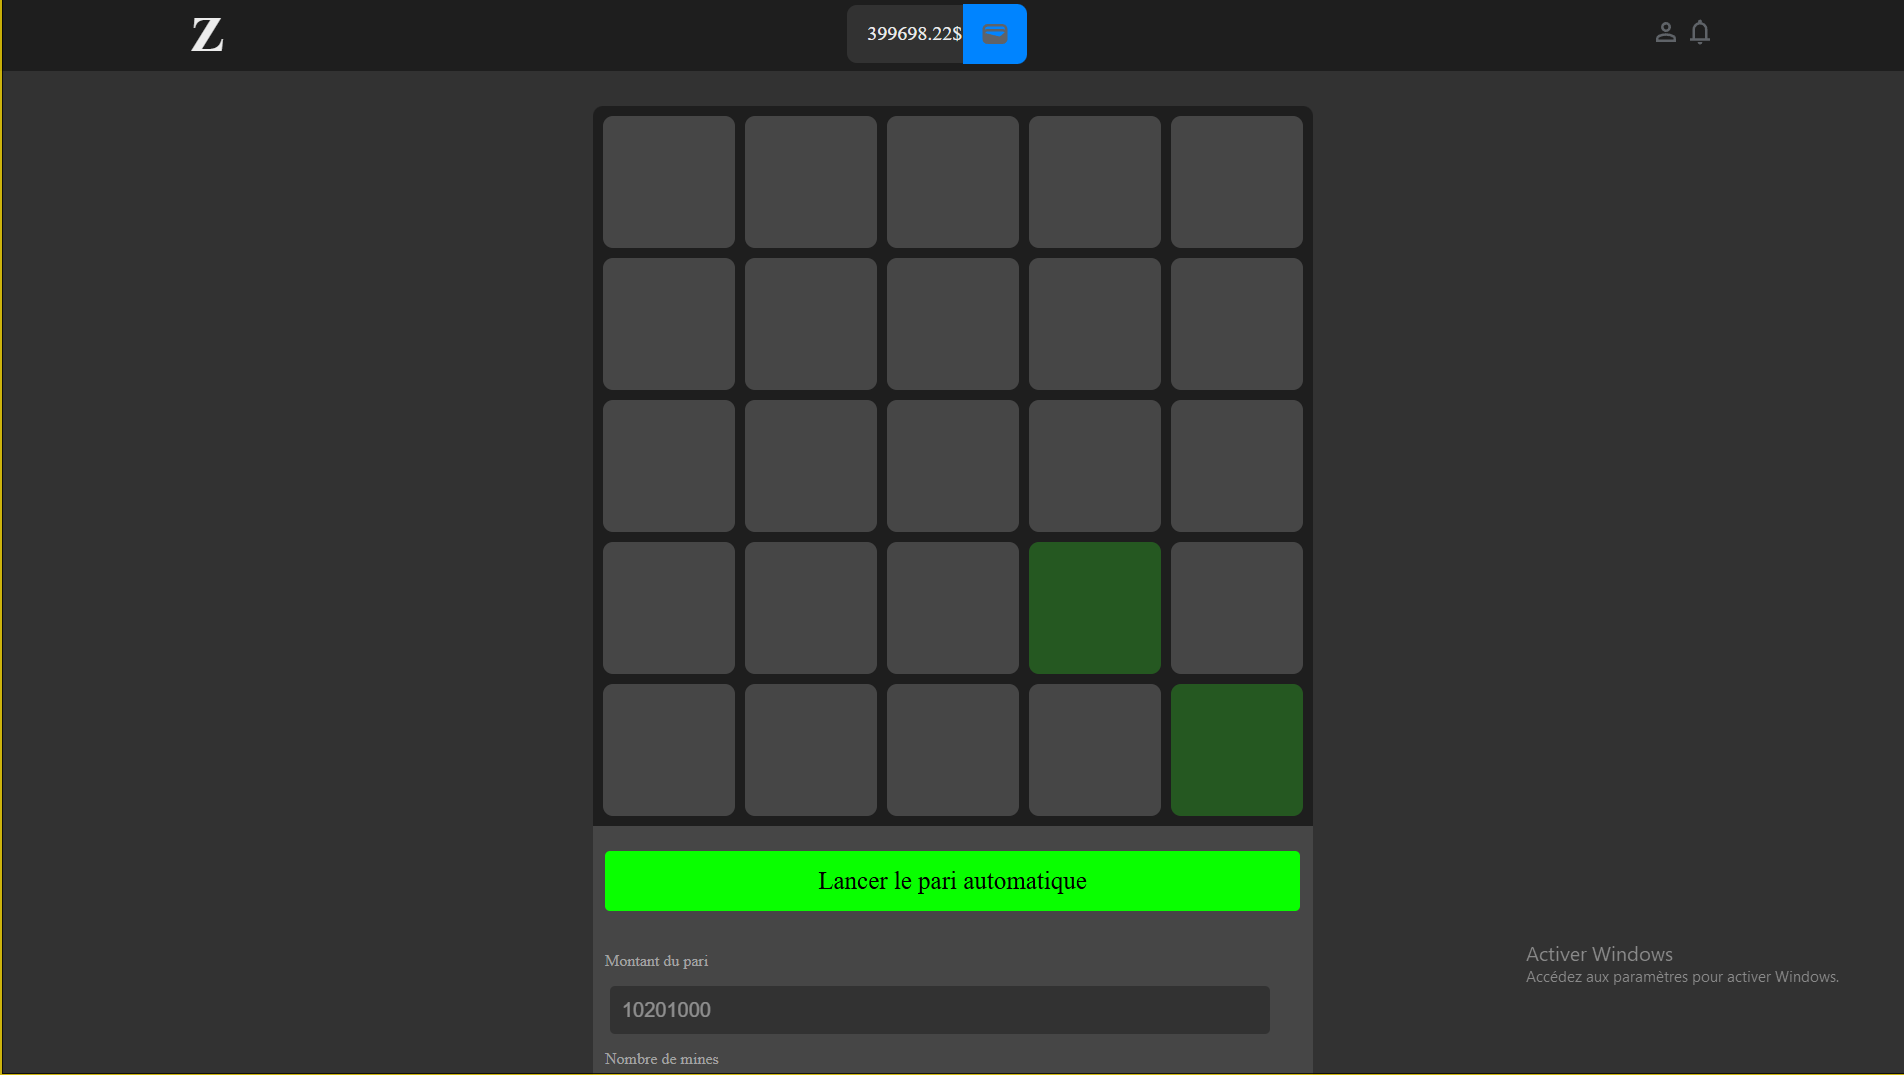
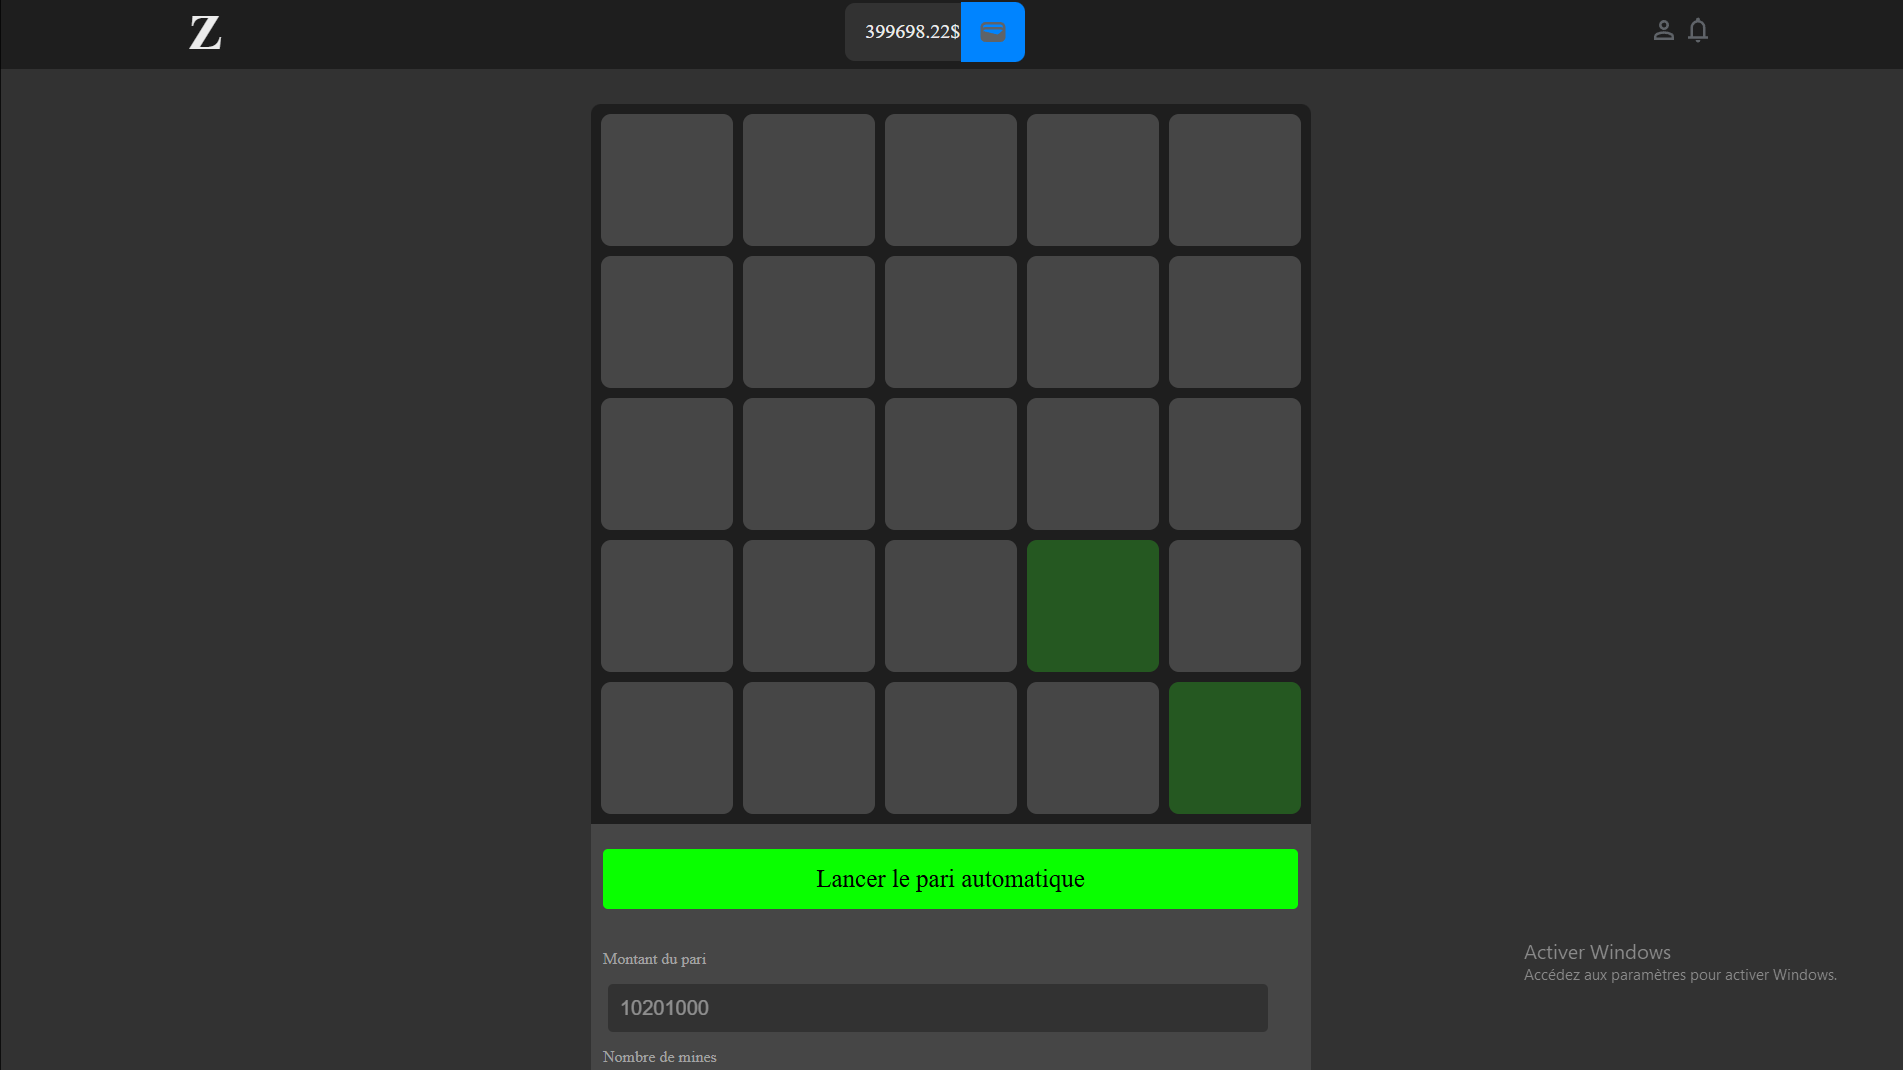
modification et presque fini, commit avant reglage h1

diff --git a/src/webjam.html b/src/webjam.html
@@ -177,7 +177,7 @@
                     </p>
 
                     <div class="media__media img-grad">
-                        <img src="assets/images/ImgBoxotel.png" alt="Photo de Zack lorsqu'il était enfant" />
+                        <img src="assets/images/memoria__oneRender.png" alt="Photo de Zack lorsqu'il était enfant" />
                     </div>
 
                 </div>
@@ -254,29 +254,40 @@
 
         <div class="swiper projets__swiper autre" data-component="Carousel" data-scrolly="fromBottom">
             <div class="swiper-wrapper">
-                <a class="swiper-slide">
+                <a class="swiper-slide" href="./Boxotel.html">
+                    <div class="texte">
+                        <h4>Refonte du site web de Boxotel</h4>
+                        <p>Repenser le site avec une approche fonctionnelle tout en conservant son identité visuelle.</p>
+                    </div>
+
+                    <img src="assets/images/ImgBoxotel.png" alt="Projet de refonte du site web de Boxotel" />
+                </a>
+
+                <a class="swiper-slide" href="./portfolio.html">
+                    <div class="texte">
+                        <h4>Création et conception d'un portfolio</h4>
+                        <p>Design et Intégration Web d’un portfolio étudiant en contexte...</p>
+                         
+                    </div>
+
+                    <img src="assets/images/portfolio__projet.png" alt="Projet de refonte du site web de Boxotel" />
+                </a>
+                <a class="swiper-slide" href="./swiiper.html">
+                    <div class="texte">
+                        <h4>Design d’application Swiiper</h4>
+                        <p>Le concept est inspiré des jeux idle. Pour ce qui est du design, j’ai essayé de me rapprocher du...</p>
+                         
+                    </div>
+
+                    <img src="assets/images/swiiper__projet.png" alt="Projet de refonte du site web de Boxotel" />
+                </a>
+                <a class="swiper-slide" href="./minesetbombes.html">
                     <div class="texte">
                         <h4>Dévelopement du jeu mines et bombes</h4>
                         <p>Mines et Bombes est un projet personnel programmer entièrement par moi même...</p>
                     </div>
 
-                    <img src="assets/images/ImgBoxotel.png" alt="Projet de refonte du site web de Boxotel" />
-                </a>
-                <a class="swiper-slide">
-                    <div class="texte">
-                        <h4>Refonte du site web de Boxotel</h4>
-                        <p>Repenser le site avec une approche fonctionnelle tout en conservant son identité visuelle.</p>
-                    </div>
-
-                    <img src="assets/images/ImgBoxotel.png" alt="Projet de refonte du site web de Boxotel" />
-                </a>
-                <a class="swiper-slide">
-                    <div class="texte">
-                        <h4>Refonte du site web de Boxotel</h4>
-                        <p>Repenser le site avec une approche fonctionnelle tout en conservant son identité visuelle.</p>
-                    </div>
-
-                    <img src="assets/images/ImgBoxotel.png" alt="Projet de refonte du site web de Boxotel" />
+                    <img src="assets/images/mines__projet.PNG" alt="Projet de refonte du site web de Boxotel" />
                 </a>
             </div>
 

diff --git a/src/swiiper.html b/src/swiiper.html
@@ -254,36 +254,46 @@
 
         <div class="swiper projets__swiper autre" data-component="Carousel" data-scrolly="fromBottom">
             <div class="swiper-wrapper">
-                <a class="swiper-slide">
+                <a class="swiper-slide" href="./Boxotel.html">
+                    <div class="texte">
+                        <h4>Refonte du site web de Boxotel</h4>
+                        <p>Repenser le site avec une approche fonctionnelle tout en conservant son identité visuelle.</p>
+                    </div>
+
+                    <img src="assets/images/ImgBoxotel.png" alt="Projet de refonte du site web de Boxotel" />
+                </a>
+                <a class="swiper-slide" href="./webjam.html">
+                    <div class="texte">
+                        <h4>Développement du site web Mémoria</h4>
+                        <p>Site web réalisé en contexte de WebJam (36heures maximum)...</p>
+                    </div>
+
+                    <img src="assets/images/memoria_projet.png" alt="Projet de refonte du site web de Boxotel" />
+                </a>
+                <a class="swiper-slide" href="./portfolio.html">
+                    <div class="texte">
+                        <h4>Création et conception d'un portfolio</h4>
+                        <p>Design et Intégration Web d’un portfolio étudiant en contexte...</p>
+                         
+                    </div>
+
+                    <img src="assets/images/portfolio__projet.png" alt="Projet de refonte du site web de Boxotel" />
+                </a>
+
+                <a class="swiper-slide" href="./minesetbombes.html">
                     <div class="texte">
                         <h4>Dévelopement du jeu mines et bombes</h4>
                         <p>Mines et Bombes est un projet personnel programmer entièrement par moi même...</p>
                     </div>
 
-                    <img src="assets/images/ImgBoxotel.png" alt="Projet de refonte du site web de Boxotel" />
-                </a>
-                <a class="swiper-slide">
-                    <div class="texte">
-                        <h4>Refonte du site web de Boxotel</h4>
-                        <p>Repenser le site avec une approche fonctionnelle tout en conservant son identité visuelle.</p>
-                    </div>
-
-                    <img src="assets/images/ImgBoxotel.png" alt="Projet de refonte du site web de Boxotel" />
-                </a>
-                <a class="swiper-slide">
-                    <div class="texte">
-                        <h4>Refonte du site web de Boxotel</h4>
-                        <p>Repenser le site avec une approche fonctionnelle tout en conservant son identité visuelle.</p>
-                    </div>
-
-                    <img src="assets/images/ImgBoxotel.png" alt="Projet de refonte du site web de Boxotel" />
+                    <img src="assets/images/mines__projet.PNG" alt="Projet de refonte du site web de Boxotel" />
                 </a>
             </div>
 
             <div class="swiper-scrollbar"></div>
         </div>
 
-        <a href="" class="bouton">
+        <a href="./index.html#projet" class="bouton">
             <p>Tous les projets</p>
             <p>→</p>
             <div class="fill"></div>

diff --git a/src/Boxotel.html b/src/Boxotel.html
@@ -275,29 +275,40 @@
 
         <div class="swiper projets__swiper autre" data-component="Carousel" data-scrolly="fromBottom">
             <div class="swiper-wrapper">
-                <a class="swiper-slide">
+
+                <a class="swiper-slide" href="./webjam.html">
+                    <div class="texte">
+                        <h4>Développement du site web Mémoria</h4>
+                        <p>Site web réalisé en contexte de WebJam (36heures maximum)...</p>
+                    </div>
+
+                    <img src="assets/images/memoria_projet.png" alt="Projet de refonte du site web de Boxotel" />
+                </a>
+                <a class="swiper-slide" href="./portfolio.html">
+                    <div class="texte">
+                        <h4>Création et conception d'un portfolio</h4>
+                        <p>Design et Intégration Web d’un portfolio étudiant en contexte...</p>
+                         
+                    </div>
+
+                    <img src="assets/images/portfolio__projet.png" alt="Projet de refonte du site web de Boxotel" />
+                </a>
+                <a class="swiper-slide" href="./swiiper.html">
+                    <div class="texte">
+                        <h4>Design d’application Swiiper</h4>
+                        <p>Le concept est inspiré des jeux idle. Pour ce qui est du design, j’ai essayé de me rapprocher du...</p>
+                         
+                    </div>
+
+                    <img src="assets/images/swiiper__projet.png" alt="Projet de refonte du site web de Boxotel" />
+                </a>
+                <a class="swiper-slide" href="./minesetbombes.html">
                     <div class="texte">
                         <h4>Dévelopement du jeu mines et bombes</h4>
                         <p>Mines et Bombes est un projet personnel programmer entièrement par moi même...</p>
                     </div>
 
-                    <img src="assets/images/ImgBoxotel.png" alt="Projet de refonte du site web de Boxotel" />
-                </a>
-                <a class="swiper-slide">
-                    <div class="texte">
-                        <h4>Refonte du site web de Boxotel</h4>
-                        <p>Repenser le site avec une approche fonctionnelle tout en conservant son identité visuelle.</p>
-                    </div>
-
-                    <img src="assets/images/ImgBoxotel.png" alt="Projet de refonte du site web de Boxotel" />
-                </a>
-                <a class="swiper-slide">
-                    <div class="texte">
-                        <h4>Refonte du site web de Boxotel</h4>
-                        <p>Repenser le site avec une approche fonctionnelle tout en conservant son identité visuelle.</p>
-                    </div>
-
-                    <img src="assets/images/ImgBoxotel.png" alt="Projet de refonte du site web de Boxotel" />
+                    <img src="assets/images/mines__projet.PNG" alt="Projet de refonte du site web de Boxotel" />
                 </a>
             </div>
 

diff --git a/src/portfolio.html b/src/portfolio.html
@@ -269,29 +269,39 @@
 
         <div class="swiper projets__swiper autre" data-component="Carousel" data-scrolly="fromBottom">
             <div class="swiper-wrapper">
-                <a class="swiper-slide">
+                <a class="swiper-slide" href="./Boxotel.html">
+                    <div class="texte">
+                        <h4>Refonte du site web de Boxotel</h4>
+                        <p>Repenser le site avec une approche fonctionnelle tout en conservant son identité visuelle.</p>
+                    </div>
+
+                    <img src="assets/images/ImgBoxotel.png" alt="Projet de refonte du site web de Boxotel" />
+                </a>
+                <a class="swiper-slide" href="./webjam.html">
+                    <div class="texte">
+                        <h4>Développement du site web Mémoria</h4>
+                        <p>Site web réalisé en contexte de WebJam (36heures maximum)...</p>
+                    </div>
+
+                    <img src="assets/images/memoria_projet.png" alt="Projet de refonte du site web de Boxotel" />
+                </a>
+
+                <a class="swiper-slide" href="./swiiper.html">
+                    <div class="texte">
+                        <h4>Design d’application Swiiper</h4>
+                        <p>Le concept est inspiré des jeux idle. Pour ce qui est du design, j’ai essayé de me rapprocher du...</p>
+                         
+                    </div>
+
+                    <img src="assets/images/swiiper__projet.png" alt="Projet de refonte du site web de Boxotel" />
+                </a>
+                <a class="swiper-slide" href="./minesetbombes.html">
                     <div class="texte">
                         <h4>Dévelopement du jeu mines et bombes</h4>
                         <p>Mines et Bombes est un projet personnel programmer entièrement par moi même...</p>
                     </div>
 
-                    <img src="assets/images/ImgBoxotel.png" alt="Projet de refonte du site web de Boxotel" />
-                </a>
-                <a class="swiper-slide">
-                    <div class="texte">
-                        <h4>Refonte du site web de Boxotel</h4>
-                        <p>Repenser le site avec une approche fonctionnelle tout en conservant son identité visuelle.</p>
-                    </div>
-
-                    <img src="assets/images/ImgBoxotel.png" alt="Projet de refonte du site web de Boxotel" />
-                </a>
-                <a class="swiper-slide">
-                    <div class="texte">
-                        <h4>Refonte du site web de Boxotel</h4>
-                        <p>Repenser le site avec une approche fonctionnelle tout en conservant son identité visuelle.</p>
-                    </div>
-
-                    <img src="assets/images/ImgBoxotel.png" alt="Projet de refonte du site web de Boxotel" />
+                    <img src="assets/images/mines__projet.PNG" alt="Projet de refonte du site web de Boxotel" />
                 </a>
             </div>
 

diff --git a/src/minesetbombes.html b/src/minesetbombes.html
@@ -238,15 +238,7 @@
 
         <div class="swiper projets__swiper autre" data-component="Carousel" data-scrolly="fromBottom">
             <div class="swiper-wrapper">
-                <a class="swiper-slide">
-                    <div class="texte">
-                        <h4>Dévelopement du jeu mines et bombes</h4>
-                        <p>Mines et Bombes est un projet personnel programmer entièrement par moi même...</p>
-                    </div>
-
-                    <img src="assets/images/ImgBoxotel.png" alt="Projet de refonte du site web de Boxotel" />
-                </a>
-                <a class="swiper-slide">
+                <a class="swiper-slide" href="./Boxotel.html">
                     <div class="texte">
                         <h4>Refonte du site web de Boxotel</h4>
                         <p>Repenser le site avec une approche fonctionnelle tout en conservant son identité visuelle.</p>
@@ -254,14 +246,33 @@
 
                     <img src="assets/images/ImgBoxotel.png" alt="Projet de refonte du site web de Boxotel" />
                 </a>
-                <a class="swiper-slide">
+                <a class="swiper-slide" href="./webjam.html">
                     <div class="texte">
-                        <h4>Refonte du site web de Boxotel</h4>
-                        <p>Repenser le site avec une approche fonctionnelle tout en conservant son identité visuelle.</p>
+                        <h4>Développement du site web Mémoria</h4>
+                        <p>Site web réalisé en contexte de WebJam (36heures maximum)...</p>
                     </div>
 
-                    <img src="assets/images/ImgBoxotel.png" alt="Projet de refonte du site web de Boxotel" />
+                    <img src="assets/images/memoria_projet.png" alt="Projet de refonte du site web de Boxotel" />
                 </a>
+                <a class="swiper-slide" href="./portfolio.html">
+                    <div class="texte">
+                        <h4>Création et conception d'un portfolio</h4>
+                        <p>Design et Intégration Web d’un portfolio étudiant en contexte...</p>
+                         
+                    </div>
+
+                    <img src="assets/images/portfolio__projet.png" alt="Projet de refonte du site web de Boxotel" />
+                </a>
+                <a class="swiper-slide" href="./swiiper.html">
+                    <div class="texte">
+                        <h4>Design d’application Swiiper</h4>
+                        <p>Le concept est inspiré des jeux idle. Pour ce qui est du design, j’ai essayé de me rapprocher du...</p>
+                         
+                    </div>
+
+                    <img src="assets/images/swiiper__projet.png" alt="Projet de refonte du site web de Boxotel" />
+                </a>
+
             </div>
 
             <div class="swiper-scrollbar"></div>

diff --git a/src/styles/components/hero.scss b/src/styles/components/hero.scss
@@ -66,10 +66,29 @@
 
 .projet {
     .content {
+        isolation: isolate;
         .hero__content {
+            
+                        position: relative;
+            z-index: auto;
             .hero__caption {
                 margin-top: 150px;
             }
+
+
+        .h1__container {
+            h1 {
+                z-index: 0;
+            }
+
+            h1.stroke {
+                z-index: 2;
+            }
+
+             h1:not(.stroke) {
+            z-index: -1;
+        }
+        }
         }
 
         .hero__media {
@@ -78,6 +97,8 @@
             top: -25px;
 
             min-height: 500px;
+
+            z-index: 1;
 
             img {
                 aspect-ratio: 1.33/1;

diff --git a/src/index.html b/src/index.html
@@ -189,7 +189,7 @@
                 <ul>
                     <li>
                         <svg class="icon icon--lg">
-                            <use href="#icon-manette"></use>
+                            <use href="#icon-controllerv2"></use>
                         </svg>
                         Développement de jeu
                     </li>
@@ -203,7 +203,7 @@
 
                     <li>
                         <svg class="icon icon--lg">
-                            <use href="#icon-phone"></use>
+                            <use href="#icon-phonev2"></use>
                         </svg>
                         Applications mobiles
                     </li>

diff --git a/src/404.html b/src/404.html
@@ -1,0 +1,21 @@
+{% include "_partials/_header.html" %}
+
+<div>
+    <div class="wrapper">
+            <h1>404 page introuvable</h1>
+            <p>Retournez vers l'accueil</p>
+
+            <a href="./index.html" class="bouton">
+                <p>Accueil</p>
+                <p>→</p>
+                <div class="fill"></div>
+            </a>
+    </div>
+
+</div>
+
+
+
+
+
+{% include "_partials/_footer.html" %}

diff --git a/src/styles/components/skills.scss b/src/styles/components/skills.scss
@@ -88,6 +88,10 @@
             border-bottom: 1px solid var(--color-black);
             padding-bottom: 25px;
         }
+
+        .qualités{
+            padding-left: 0px;
+        }
     }
 
     .logiciels{
